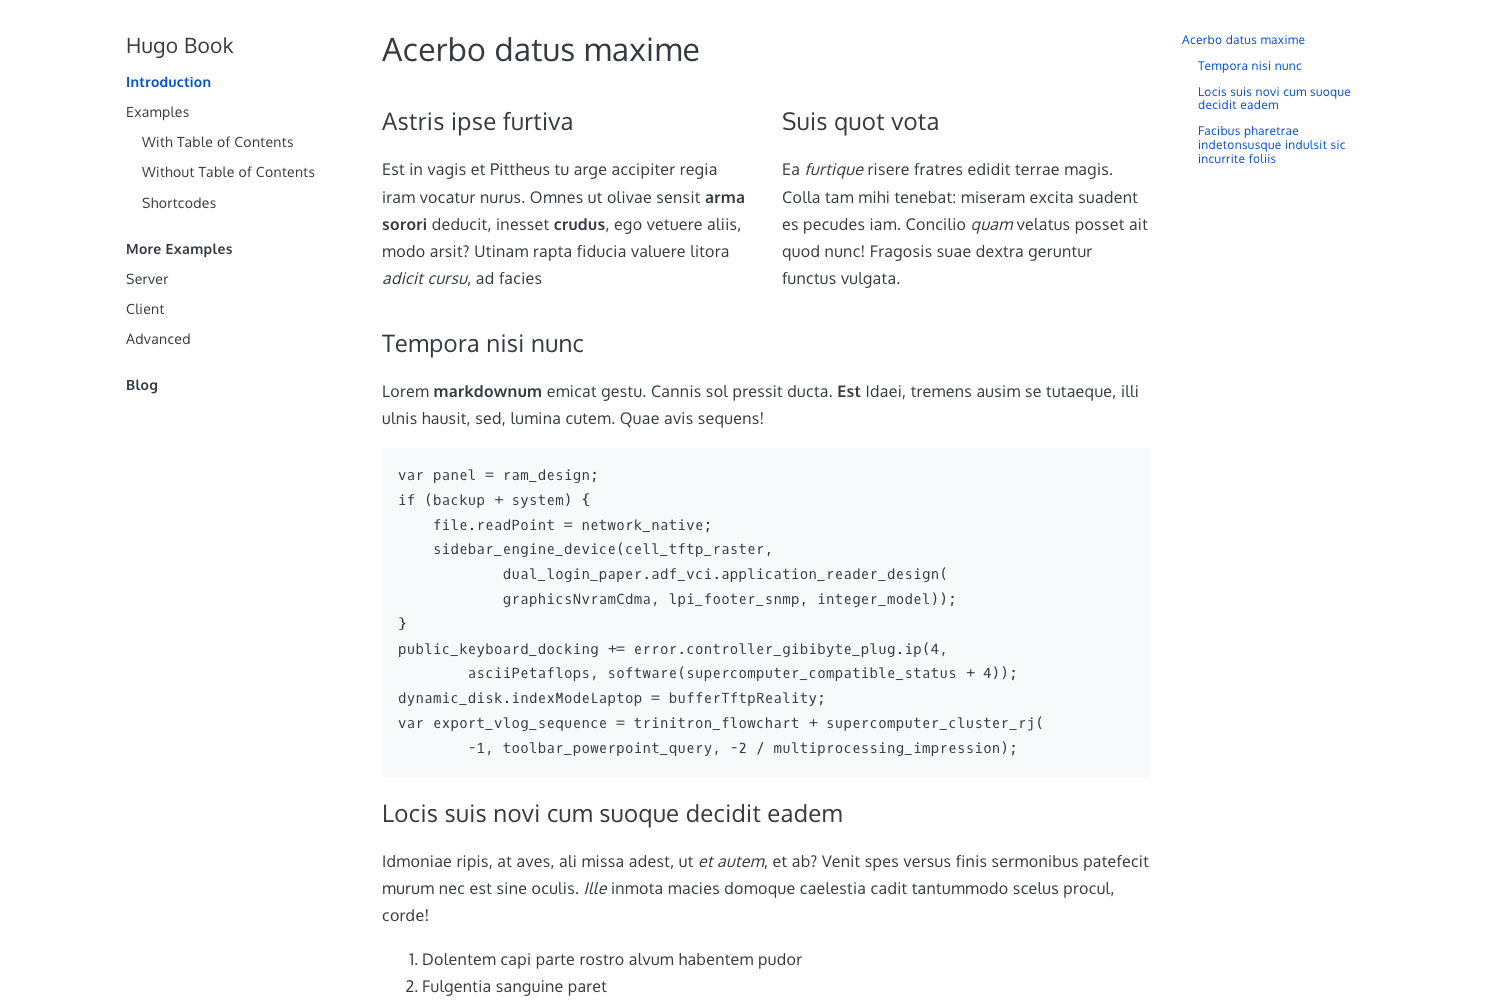
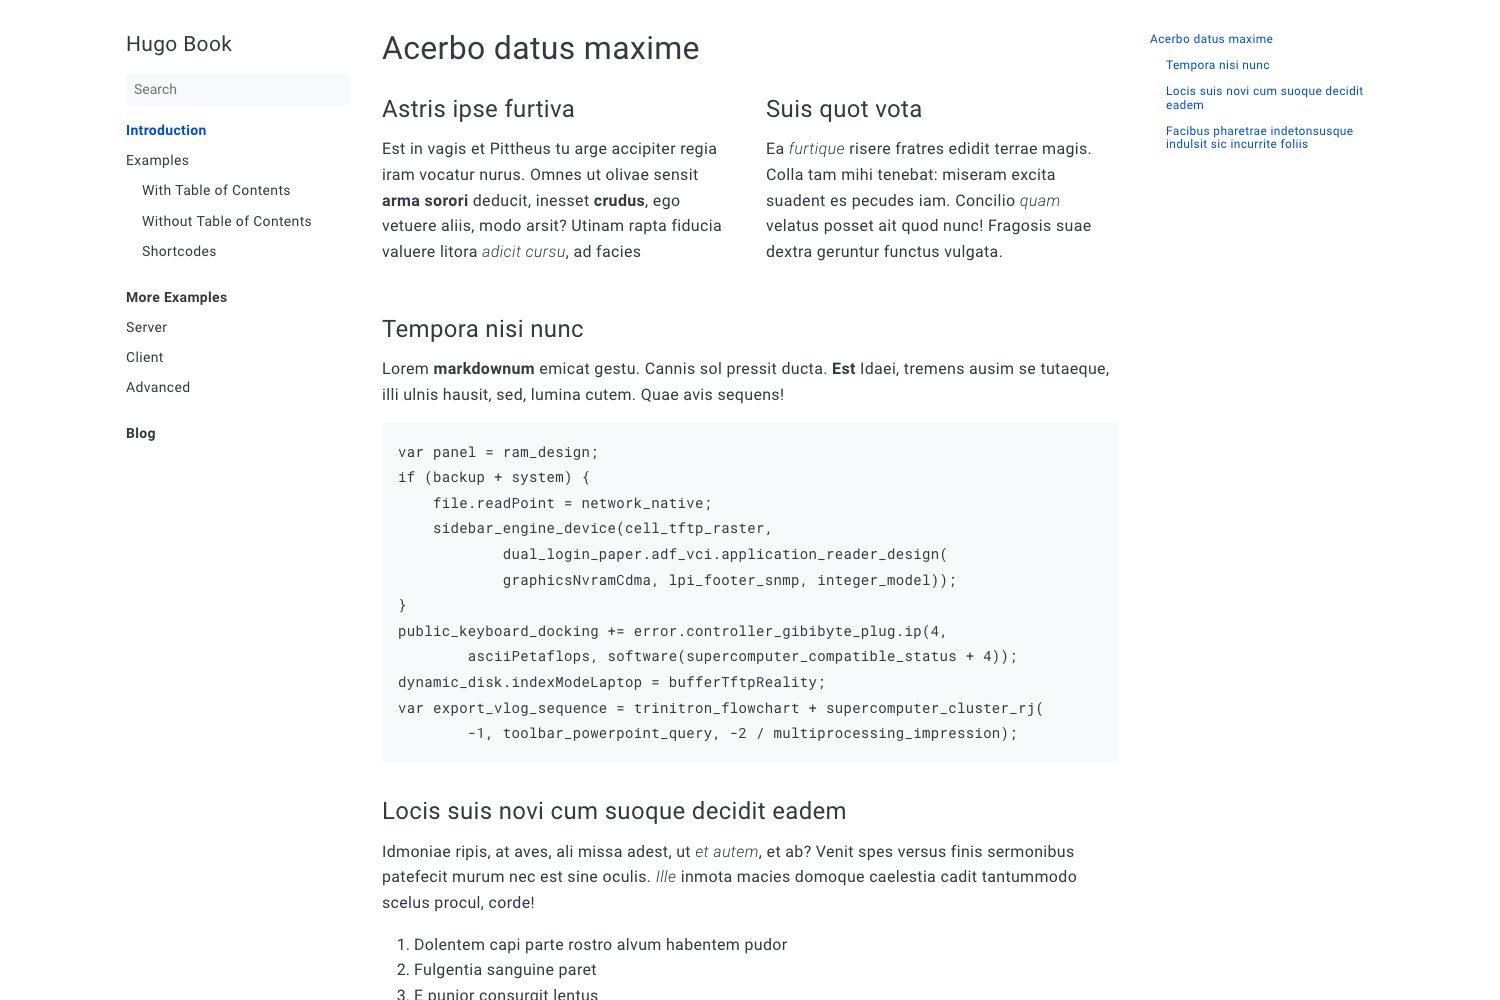
Update screenshots and theme tags

diff --git a/assets/book.scss b/assets/book.scss
@@ -140,13 +140,20 @@ ul.pagination {
 .book-search {
   position: relative;
   margin: $padding-16 0;
+  border-bottom: 1px solid transparent;
+
+  &::after {
+    display: block;
+    content: "";
+    clear: both;
+  }
 
   input {
+    width: 100%;
+    padding: $padding-8;
+
     border: 0;
     border-radius: $padding-4;
-
-    padding: $padding-8;
-    width: 100%;
 
     background: $gray-100;
 
@@ -169,10 +176,6 @@ ul.pagination {
     border-radius: 50%;
 
     @include spin(1s);
-  }
-
-  li:last-child {
-    margin-bottom: $padding-16 * 2;
   }
 }
 
